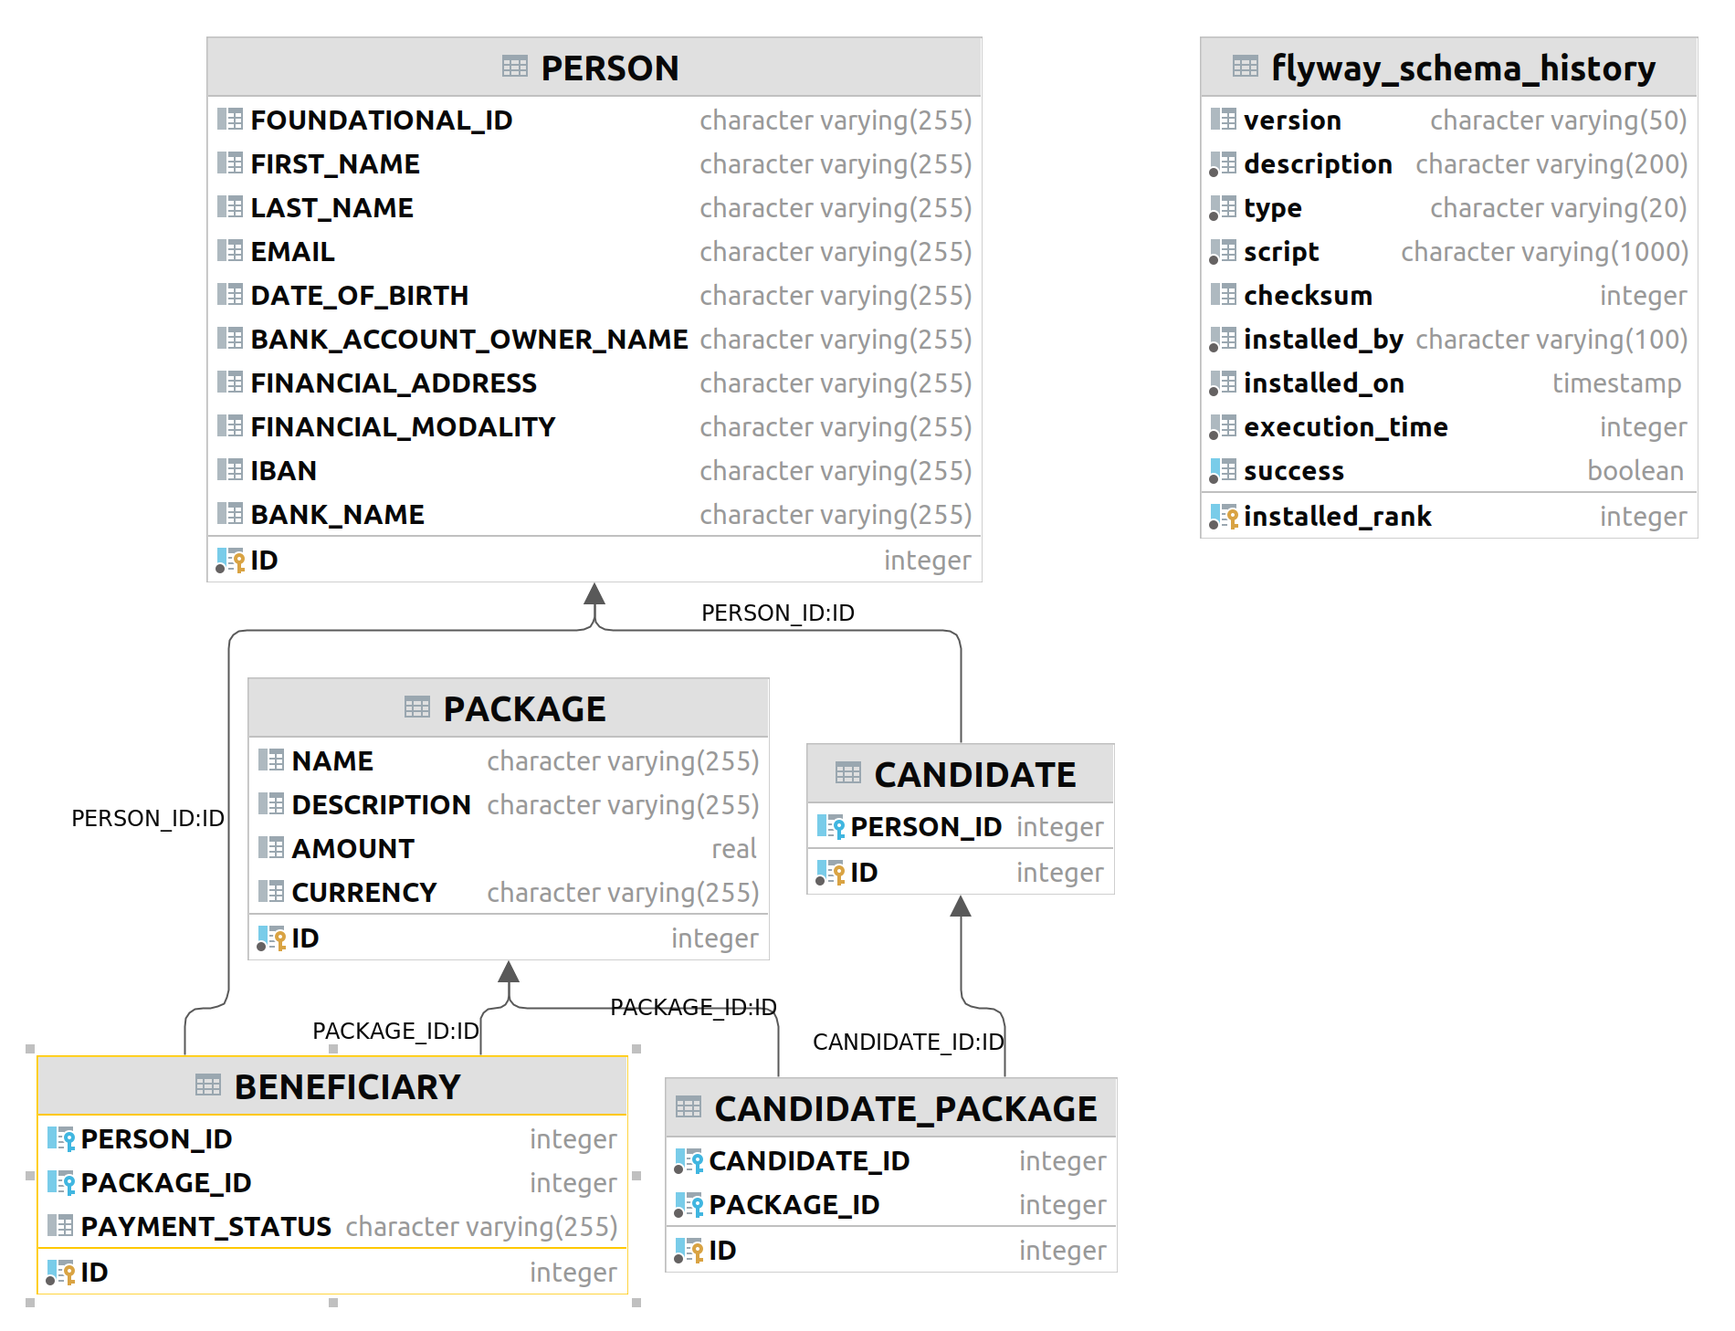
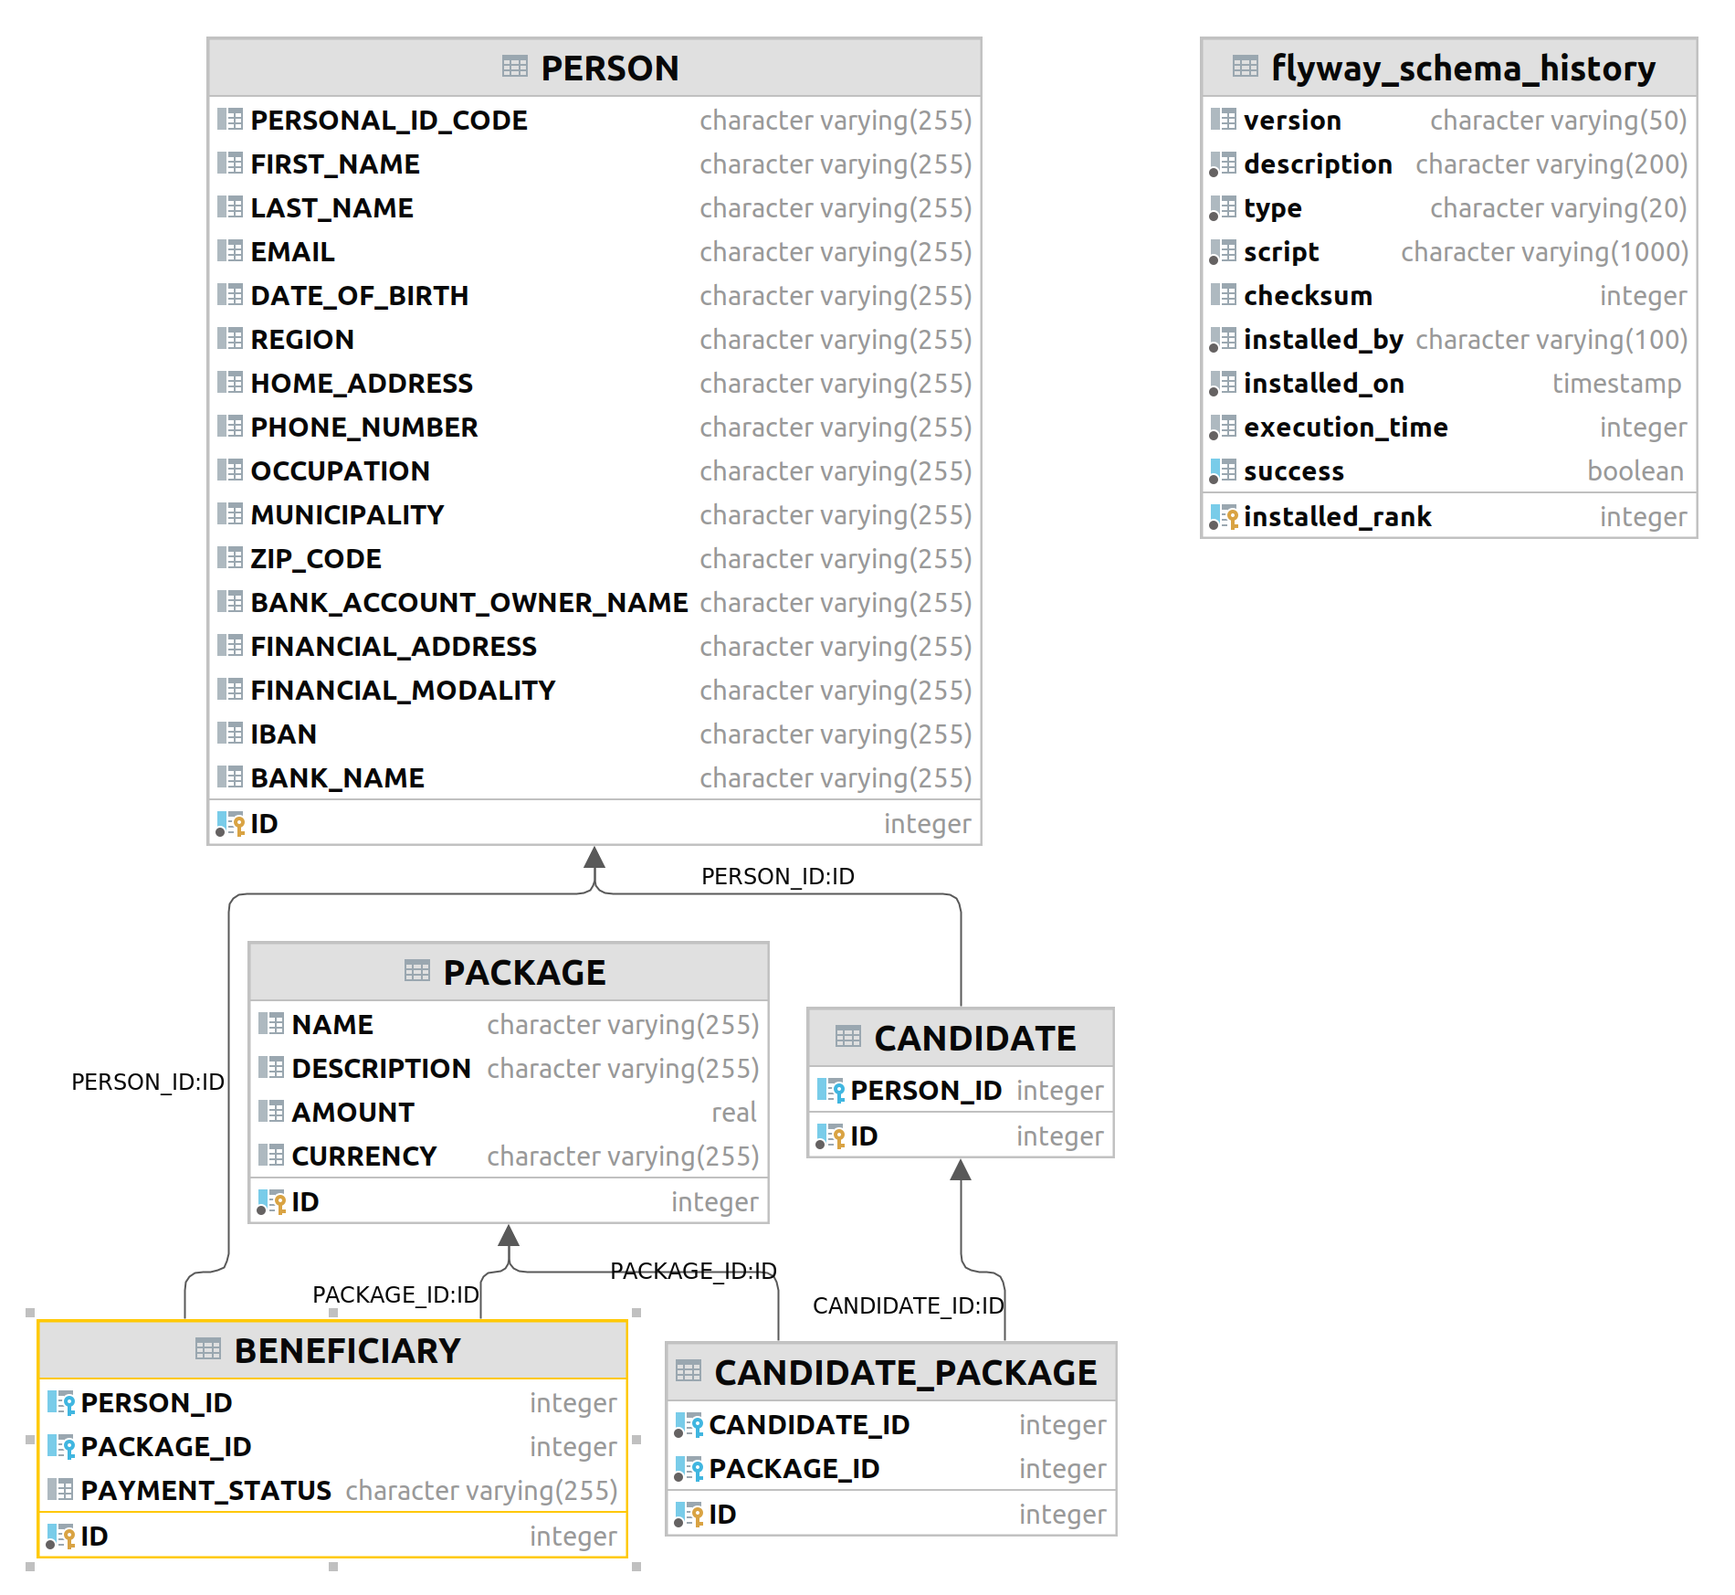
Add missing fields to person entity.

diff --git a/src/main/java/global/govstack/mocksris/model/Person.java b/src/main/java/global/govstack/mocksris/model/Person.java
@@ -16,7 +16,7 @@ public class Person {
     private int id;
 
     @Column(nullable = false)
-    private String foundationalId;
+    private String personalIdCode;
     @Column(nullable = false)
     private String firstName;
 
@@ -28,6 +28,22 @@ public class Person {
 
     @Column
     private String dateOfBirth;
+
+    @Column
+    private String region;
+
+    @Column
+    private String homeAddress;
+    @Column
+    private String phoneNumber;
+
+    @Column
+    private String occupation;
+
+    @Column
+    private String municipality;
+    @Column
+    private String zipCode;
 
     @Column
     private String bankAccountOwnerName;
@@ -49,11 +65,17 @@ public class Person {
     }
 
     public Person(CreatePersonDto personDto) {
-        this.foundationalId = personDto.foundationalId();
+        this.personalIdCode = personDto.personalIdCode();
         this.firstName = personDto.firstName();
         this.lastName = personDto.lastName();
         this.email = personDto.email();
         this.dateOfBirth = personDto.dateOfBirth();
+        this.region = personDto.region();
+        this.homeAddress = personDto.homeAddress();
+        this.phoneNumber = personDto.phoneNumber();
+        this.occupation = personDto.occupation();
+        this.municipality = personDto.municipality();
+        this.zipCode = personDto.zipCode();
         this.bankAccountOwnerName = personDto.bankAccountOwnerName();
         this.financialAddress = personDto.financialAddress();
         this.financialModality = personDto.financialModality();
@@ -69,12 +91,12 @@ public class Person {
         this.id = id;
     }
 
-    public String getFoundationalId() {
-        return foundationalId;
+    public String getPersonalIdCode() {
+        return personalIdCode;
     }
 
-    public void setFoundationalId(String foundationalId) {
-        this.foundationalId = foundationalId;
+    public void setPersonalIdCode(String foundationalId) {
+        this.personalIdCode = foundationalId;
     }
 
     public String getFirstName() {
@@ -111,6 +133,55 @@ public class Person {
 
     public String getBankAccountOwnerName() {
         return bankAccountOwnerName;
+    }
+
+
+    public String getRegion() {
+        return region;
+    }
+
+    public void setRegion(String region) {
+        this.region = region;
+    }
+
+    public String getHomeAddress() {
+        return homeAddress;
+    }
+
+    public void setHomeAddress(String homeAddress) {
+        this.homeAddress = homeAddress;
+    }
+
+    public String getPhoneNumber() {
+        return phoneNumber;
+    }
+
+    public void setPhoneNumber(String phoneNumber) {
+        this.phoneNumber = phoneNumber;
+    }
+
+    public String getOccupation() {
+        return occupation;
+    }
+
+    public void setOccupation(String occupation) {
+        this.occupation = occupation;
+    }
+
+    public String getMunicipality() {
+        return municipality;
+    }
+
+    public void setMunicipality(String municipality) {
+        this.municipality = municipality;
+    }
+
+    public String getZipCode() {
+        return zipCode;
+    }
+
+    public void setZipCode(String zipCode) {
+        this.zipCode = zipCode;
     }
 
     public void setBankAccountOwnerName(String bankAccountOwnerName) {

diff --git a/src/main/java/global/govstack/mocksris/controller/dto/PersonDto.java b/src/main/java/global/govstack/mocksris/controller/dto/PersonDto.java
@@ -5,11 +5,17 @@ import global.govstack.mocksris.model.Person;
 
 public class PersonDto {
     private int id;
-    private String  foundationalId;
+    private String personalIdCode;
     private String  firstName;
     private String  lastName;
     private String  email;
     private String  dateOfBirth;
+    private String  region;
+    private String  homeAddress;
+    private String  phoneNumber;
+    private String  occupation;
+    private String  municipality;
+    private String  zipCode;
     private String  bankAccountOwnerName;
     private String  financialAddress;
     private String  financialModality;
@@ -21,11 +27,17 @@ public class PersonDto {
 
     public PersonDto(Person person) {
         this.id = person.getId();
-        this.foundationalId = person.getFoundationalId();
+        this.personalIdCode = person.getPersonalIdCode();
         this.firstName = person.getFirstName();
         this.lastName = person.getLastName();
         this.email = person.getEmail();
         this.dateOfBirth = person.getDateOfBirth();
+        this.region = person.getRegion();
+        this.homeAddress = person.getHomeAddress();
+        this.phoneNumber = person.getPhoneNumber();
+        this.occupation = person.getOccupation();
+        this.municipality = person.getMunicipality();
+        this.zipCode = person.getZipCode();
         this.bankAccountOwnerName = person.getBankAccountOwnerName();
         this.financialAddress = person.getFinancialAddress();
         this.financialModality = person.getFinancialModality();
@@ -41,12 +53,12 @@ public class PersonDto {
         this.id = id;
     }
 
-    public String getFoundationalId() {
-        return foundationalId;
+    public String getPersonalIdCode() {
+        return personalIdCode;
     }
 
-    public void setFoundationalId(String foundationalId) {
-        this.foundationalId = foundationalId;
+    public void setPersonalIdCode(String personalIdCode) {
+        this.personalIdCode = personalIdCode;
     }
 
     public String getFirstName() {
@@ -79,6 +91,55 @@ public class PersonDto {
 
     public void setDateOfBirth(String dateOfBirth) {
         this.dateOfBirth = dateOfBirth;
+    }
+
+
+    public String getRegion() {
+        return region;
+    }
+
+    public void setRegion(String region) {
+        this.region = region;
+    }
+
+    public String getHomeAddress() {
+        return homeAddress;
+    }
+
+    public void setHomeAddress(String homeAddress) {
+        this.homeAddress = homeAddress;
+    }
+
+    public String getPhoneNumber() {
+        return phoneNumber;
+    }
+
+    public void setPhoneNumber(String phoneNumber) {
+        this.phoneNumber = phoneNumber;
+    }
+
+    public String getOccupation() {
+        return occupation;
+    }
+
+    public void setOccupation(String occupation) {
+        this.occupation = occupation;
+    }
+
+    public String getMunicipality() {
+        return municipality;
+    }
+
+    public void setMunicipality(String municipality) {
+        this.municipality = municipality;
+    }
+
+    public String getZipCode() {
+        return zipCode;
+    }
+
+    public void setZipCode(String zipCode) {
+        this.zipCode = zipCode;
     }
 
     public String getBankAccountOwnerName() {

diff --git a/src/main/java/global/govstack/mocksris/configuration/SecurityConfig.java b/src/main/java/global/govstack/mocksris/configuration/SecurityConfig.java
@@ -96,7 +96,7 @@ public class SecurityConfig {
                         .requestMatchers(HttpMethod.POST,"/api/v1/candidates/**").hasAuthority(ROLE + REGISTRY_ADMINISTRATION)
                         .requestMatchers(HttpMethod.POST,"/api/v1/candidates/**").hasAuthority(ROLE + REGISTRY_ADMINISTRATION)
                         .requestMatchers(HttpMethod.DELETE,"/api/v1/candidates/**").hasAuthority(ROLE + REGISTRY_ADMINISTRATION)
-                        .requestMatchers(HttpMethod.GET,"/api/v1/candidates/**").hasAuthority(ROLE + ENROLLMENT_OFFICER)
+                        .requestMatchers(HttpMethod.GET,"/api/v1/candidates/**").hasAnyAuthority(ROLE + ENROLLMENT_OFFICER, ROLE + REGISTRY_ADMINISTRATION)
                         .anyRequest().authenticated()
                 )
                 .sessionManagement(session -> session.sessionCreationPolicy(SessionCreationPolicy.STATELESS))

diff --git a/src/main/java/global/govstack/mocksris/controller/dto/CreatePersonDto.java b/src/main/java/global/govstack/mocksris/controller/dto/CreatePersonDto.java
@@ -1,6 +1,8 @@
 package global.govstack.mocksris.controller.dto;
 
-public record CreatePersonDto(String  foundationalId, String  firstName, String  lastName, String  email,
-                              String  dateOfBirth, String  bankAccountOwnerName, String  financialAddress,
-                              String  financialModality,  String  iban,  String  bankName) {
+public record CreatePersonDto(String personalIdCode, String  firstName, String  lastName, String  email,
+                              String  dateOfBirth, String region, String homeAddress, String phoneNumber,
+                              String occupation, String municipality, String zipCode,
+                              String  bankAccountOwnerName, String  financialAddress,
+                              String  financialModality, String  iban, String  bankName) {
 }

diff --git a/src/main/java/global/govstack/mocksris/service/PaymentService.java b/src/main/java/global/govstack/mocksris/service/PaymentService.java
@@ -40,7 +40,7 @@ public class PaymentService {
         String batchId = UUID.randomUUID().toString();
         var creditInstructionsDTO = beneficiaryList.stream().map(beneficiary -> {
             String instructionId = UUID.randomUUID().toString();
-            var payeeFunctionalId = beneficiary.getPerson().getFoundationalId() +
+            var payeeFunctionalId = beneficiary.getPerson().getPersonalIdCode() +
                     paymentProperties.governmentIdentifier() +
                     beneficiary.getEnrolledPackage().getId().toString();
             var amount = beneficiary.getEnrolledPackage().getAmount();

diff --git a/src/main/java/global/govstack/mocksris/service/BeneficiaryService.java b/src/main/java/global/govstack/mocksris/service/BeneficiaryService.java
@@ -45,7 +45,7 @@ public class BeneficiaryService {
         beneficiary.setPaymentStatus(PaymentStatus.INITIATE);
         Beneficiary savedBeneficiary = repository.save(beneficiary);
         candidateService.deleteById(candidate.getId());
-        String functionalId = savedBeneficiary.getPerson().getFoundationalId() +
+        String functionalId = savedBeneficiary.getPerson().getPersonalIdCode() +
                 properties.governmentIdentifier() +
                 savedBeneficiary.getEnrolledPackage().getId();
         var beneficiaryDTO = List.of(new PaymentOnboardingBeneficiaryDetailsDTO(

diff --git a/docs/data-models.md b/docs/data-models.md
@@ -50,16 +50,22 @@ Similar [description](https://openid.net/specs/openid-connect-core-1_0.html#5.1.
 financial_address is https://govstack.gitbook.io/bb-payments/9-service-apis#docs-internal-guid-f78d8d0a-7fff-33bf-2d15-aced73dc0f65
 
 
-| Name                    |  Type   | Modifiers |                                                                                                       Description                                                                                                       |
-|:------------------------|:-------:|:----------|:-----------------------------------------------------------------------------------------------------------------------------------------------------------------------------------------------------------------------:|
-| id [PK]                 | integer | NOT NULL  |                                                                                                       Primary key                                                                                                       |
-| foundational_id         | character varying(255)  |           |              UUID is a temporary solution for showing Foundational Id.  https://govstack-global.atlassian.net/wiki/spaces/DEMO/pages/111575043/Service+Blueprint+of+Unconditional+Social+Cash+Transfer               |
-| first_name              | character varying(255)  |           |                                                                                                    Person first name                                                                                                    |
-| last_name               | character varying(255)  |           |                                                                                                    Person last name                                                                                                     |
-| email                   | character varying(255)  |           |                                                                                                      Person email                                                                                                       |
-| date_of_birth           | character varying(255)  |           |                                                                                                  Person date of birth                                                                                                   |
-| bank_account_owner_name | character varying(255)  |           |                                    Bacnk Account Owner name. [More info](https://github.com/GovStackWorkingGroup/sandbox-bb-payments/tree/bad263faa7ff1c4d7788751e9cd06899c561853a)                                     |
-| financial_address       | character varying(255)  |           |                                        Financial address [More info](https://github.com/GovStackWorkingGroup/sandbox-bb-payments/tree/bad263faa7ff1c4d7788751e9cd06899c561853a)                                         |
-| financial_modality      | character varying(255)  |           |                                        Financial modality [More info](https://github.com/GovStackWorkingGroup/sandbox-bb-payments/tree/bad263faa7ff1c4d7788751e9cd06899c561853a)                                        |
-| iban                    | character varying(255)  |           |                                International Bank Account Number  [More info](https://github.com/GovStackWorkingGroup/sandbox-bb-payments/tree/bad263faa7ff1c4d7788751e9cd06899c561853a)                                |
-| bank_name               | character varying(255)  |           |                                            Bank name  [More info](https://github.com/GovStackWorkingGroup/sandbox-bb-payments/tree/bad263faa7ff1c4d7788751e9cd06899c561853a)                                            |
+| Name                    |          Type          | Modifiers |                                                                                             Description                                                                                              |
+|:------------------------|:----------------------:|:----------|:----------------------------------------------------------------------------------------------------------------------------------------------------------------------------------------------------:|
+| id [PK]                 |        integer         | NOT NULL  |                                                                                             Primary key                                                                                              |
+| personal_id             | character varying(255) |           |                                                     Personal id code also known as foundational id. UUID is a temporary solution for showing it.                                                     |
+| first_name              | character varying(255) |           |                                                                                         Person's first name                                                                                          |
+| last_name               | character varying(255) |           |                                                                                          Person's last name                                                                                          |
+| email                   | character varying(255) |           |                                                                                            Person's email                                                                                            |
+| date_of_birth           | character varying(255) |           |                                                                                        Person's date of birth                                                                                        |
+| region                  | character varying(255) |           |                                                                                     Person's region or district                                                                                      |
+| home_address            | character varying(255) |           |                                                                                        Person's home address                                                                                         |
+| phone_number            | character varying(255) |           |                                                                                        Person's phone number                                                                                         |
+| occupation              | character varying(255) |           |                                                                                         Person's occupation                                                                                          |
+| municipality            | character varying(255) |           |                                                                                        Person's municipality                                                                                         |
+| zip_code                | character varying(255) |           |                                                                                          Person's zip code                                                                                           |
+| bank_account_owner_name | character varying(255) |           |                           Bank Account Owner name. [More info](https://github.com/GovStackWorkingGroup/sandbox-bb-payments/tree/bad263faa7ff1c4d7788751e9cd06899c561853a)                            |
+| financial_address       | character varying(255) |           |                               Financial address [More info](https://github.com/GovStackWorkingGroup/sandbox-bb-payments/tree/bad263faa7ff1c4d7788751e9cd06899c561853a)                               |
+| financial_modality      | character varying(255) |           |                              Financial modality [More info](https://github.com/GovStackWorkingGroup/sandbox-bb-payments/tree/bad263faa7ff1c4d7788751e9cd06899c561853a)                               |
+| iban                    | character varying(255) |           |                      International Bank Account Number  [More info](https://github.com/GovStackWorkingGroup/sandbox-bb-payments/tree/bad263faa7ff1c4d7788751e9cd06899c561853a)                       |
+| bank_name               | character varying(255) |           |                                  Bank name  [More info](https://github.com/GovStackWorkingGroup/sandbox-bb-payments/tree/bad263faa7ff1c4d7788751e9cd06899c561853a)                                   |
